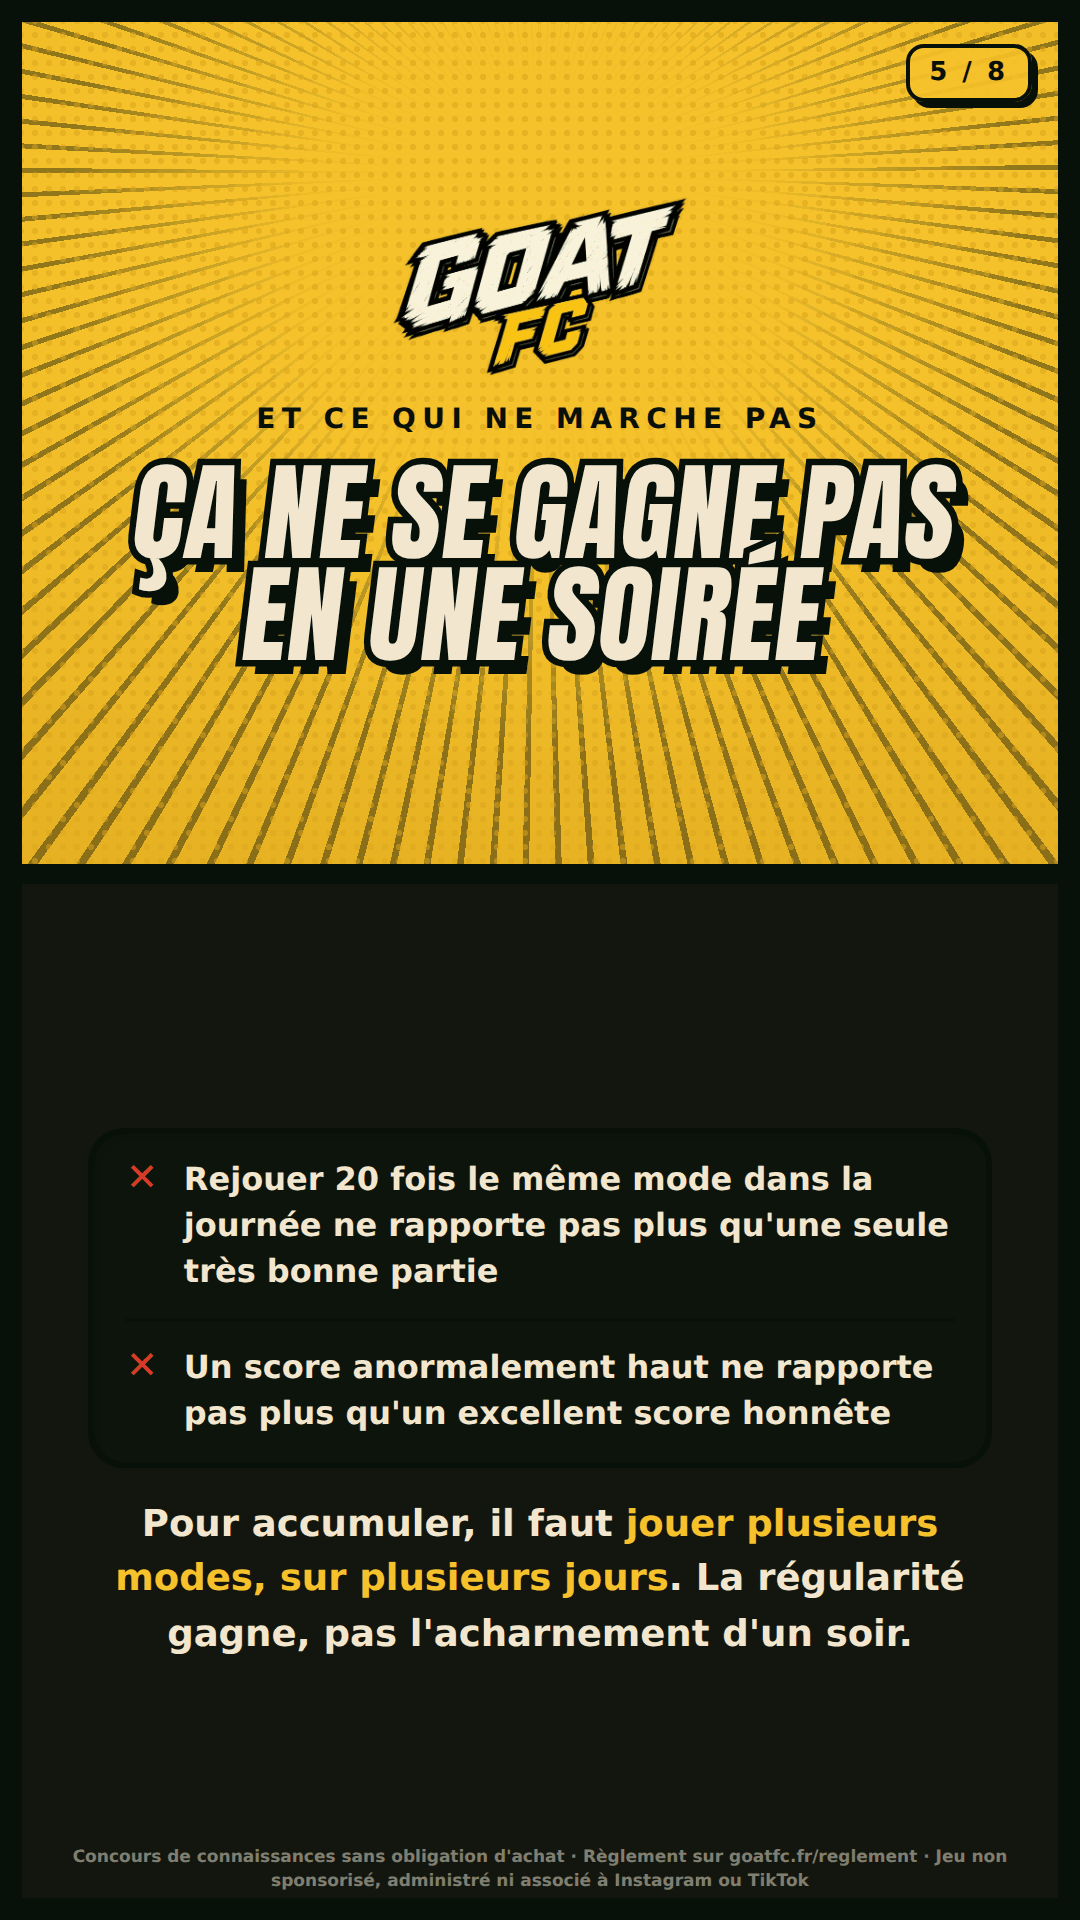
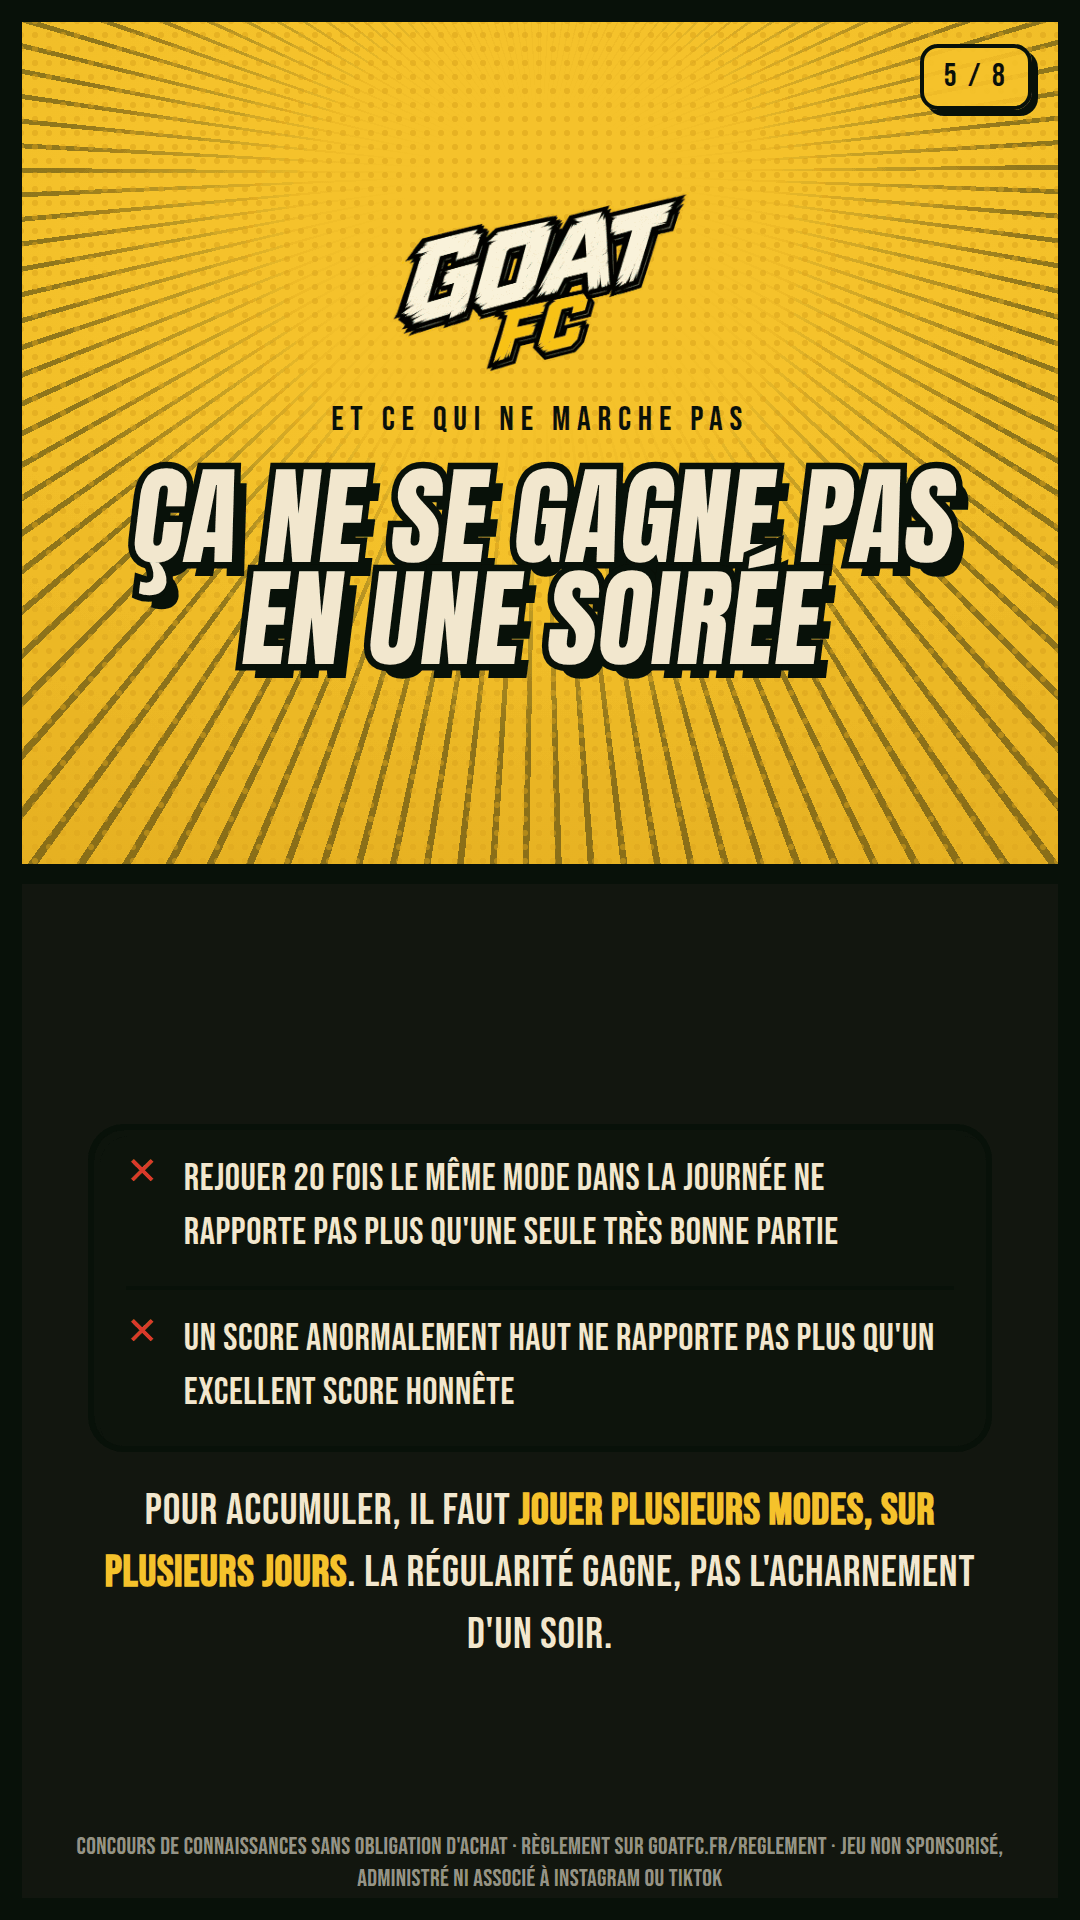
Visuels : la police de l'app partout, Bebas Neue et non une pile systeme (#609)
Les visuels composaient leurs titres en Anton — juste, c'est le lettrage
d'affiche de la charte (G.poster) — mais tout le reste dans une pile
systeme. Ils ne ressemblaient donc a l'app que par leurs titres.

La police de l'app est BEBAS NEUE : G.font ET G.heading la designent tous
les deux dans src/lib/charte.jsx. Elle est desormais embarquee dans les deux
generateurs, a cote d'Anton, et sert tout le texte courant : surlignes,
listes, corps, appels, mentions, compteur de diapositives.

── CE QUE LE CHANGEMENT DE POLICE A IMPOSE ───────────────────────────

Bebas Neue est CONDENSEE et sans bas-de-casse. A nombre de pixels egal,
elle rend un texte nettement plus etroit et percu plus petit. Les tailles
sont donc remontees d'environ 20 %.

Les mentions legales, elles, passent de 8,5 a 12 px — pas un ajustement
esthetique : a 8,5 en Bebas elles n'etaient plus lisibles sur un telephone,
et une mention qu'on ne lit pas ne protege personne. C'est la seule ligne
d'un visuel de concours qui a une fonction juridique.

La graisse retombe partout a 400. Bebas n'a QU'UNE graisse : demander 700
ou 900 declenche une graisse SYNTHETIQUE, que le navigateur fabrique en
epaississant le trace lui-meme, et qui empate les lettres d'une condensee.
Le defaut est sournois — le texte parait juste « un peu plus gras ».

Corrige au passage : les mentions du visuel simple disaient encore « Lot
dematerialise, plateforme au choix du gagnant » au singulier, reste de
l'epoque ou il n'y avait qu'un lot.
[…]

diff --git a/public/sw.js b/public/sw.js
@@ -4,7 +4,7 @@
 // IMPORTANT : bumper CACHE_NAME à chaque deploy pour forcer le navigateur
 // à détecter un nouveau SW (les changements de fichier suffisent en théorie
 // mais ça garantit un install propre côté PWA mobile installée).
-const CACHE_NAME = "goatfc-v548-2026-08-15";
+const CACHE_NAME = "goatfc-v549-2026-08-15";
 
 // Install : on prend la main tout de suite sans attendre la fermeture des onglets
 self.addEventListener("install", (event) => {
